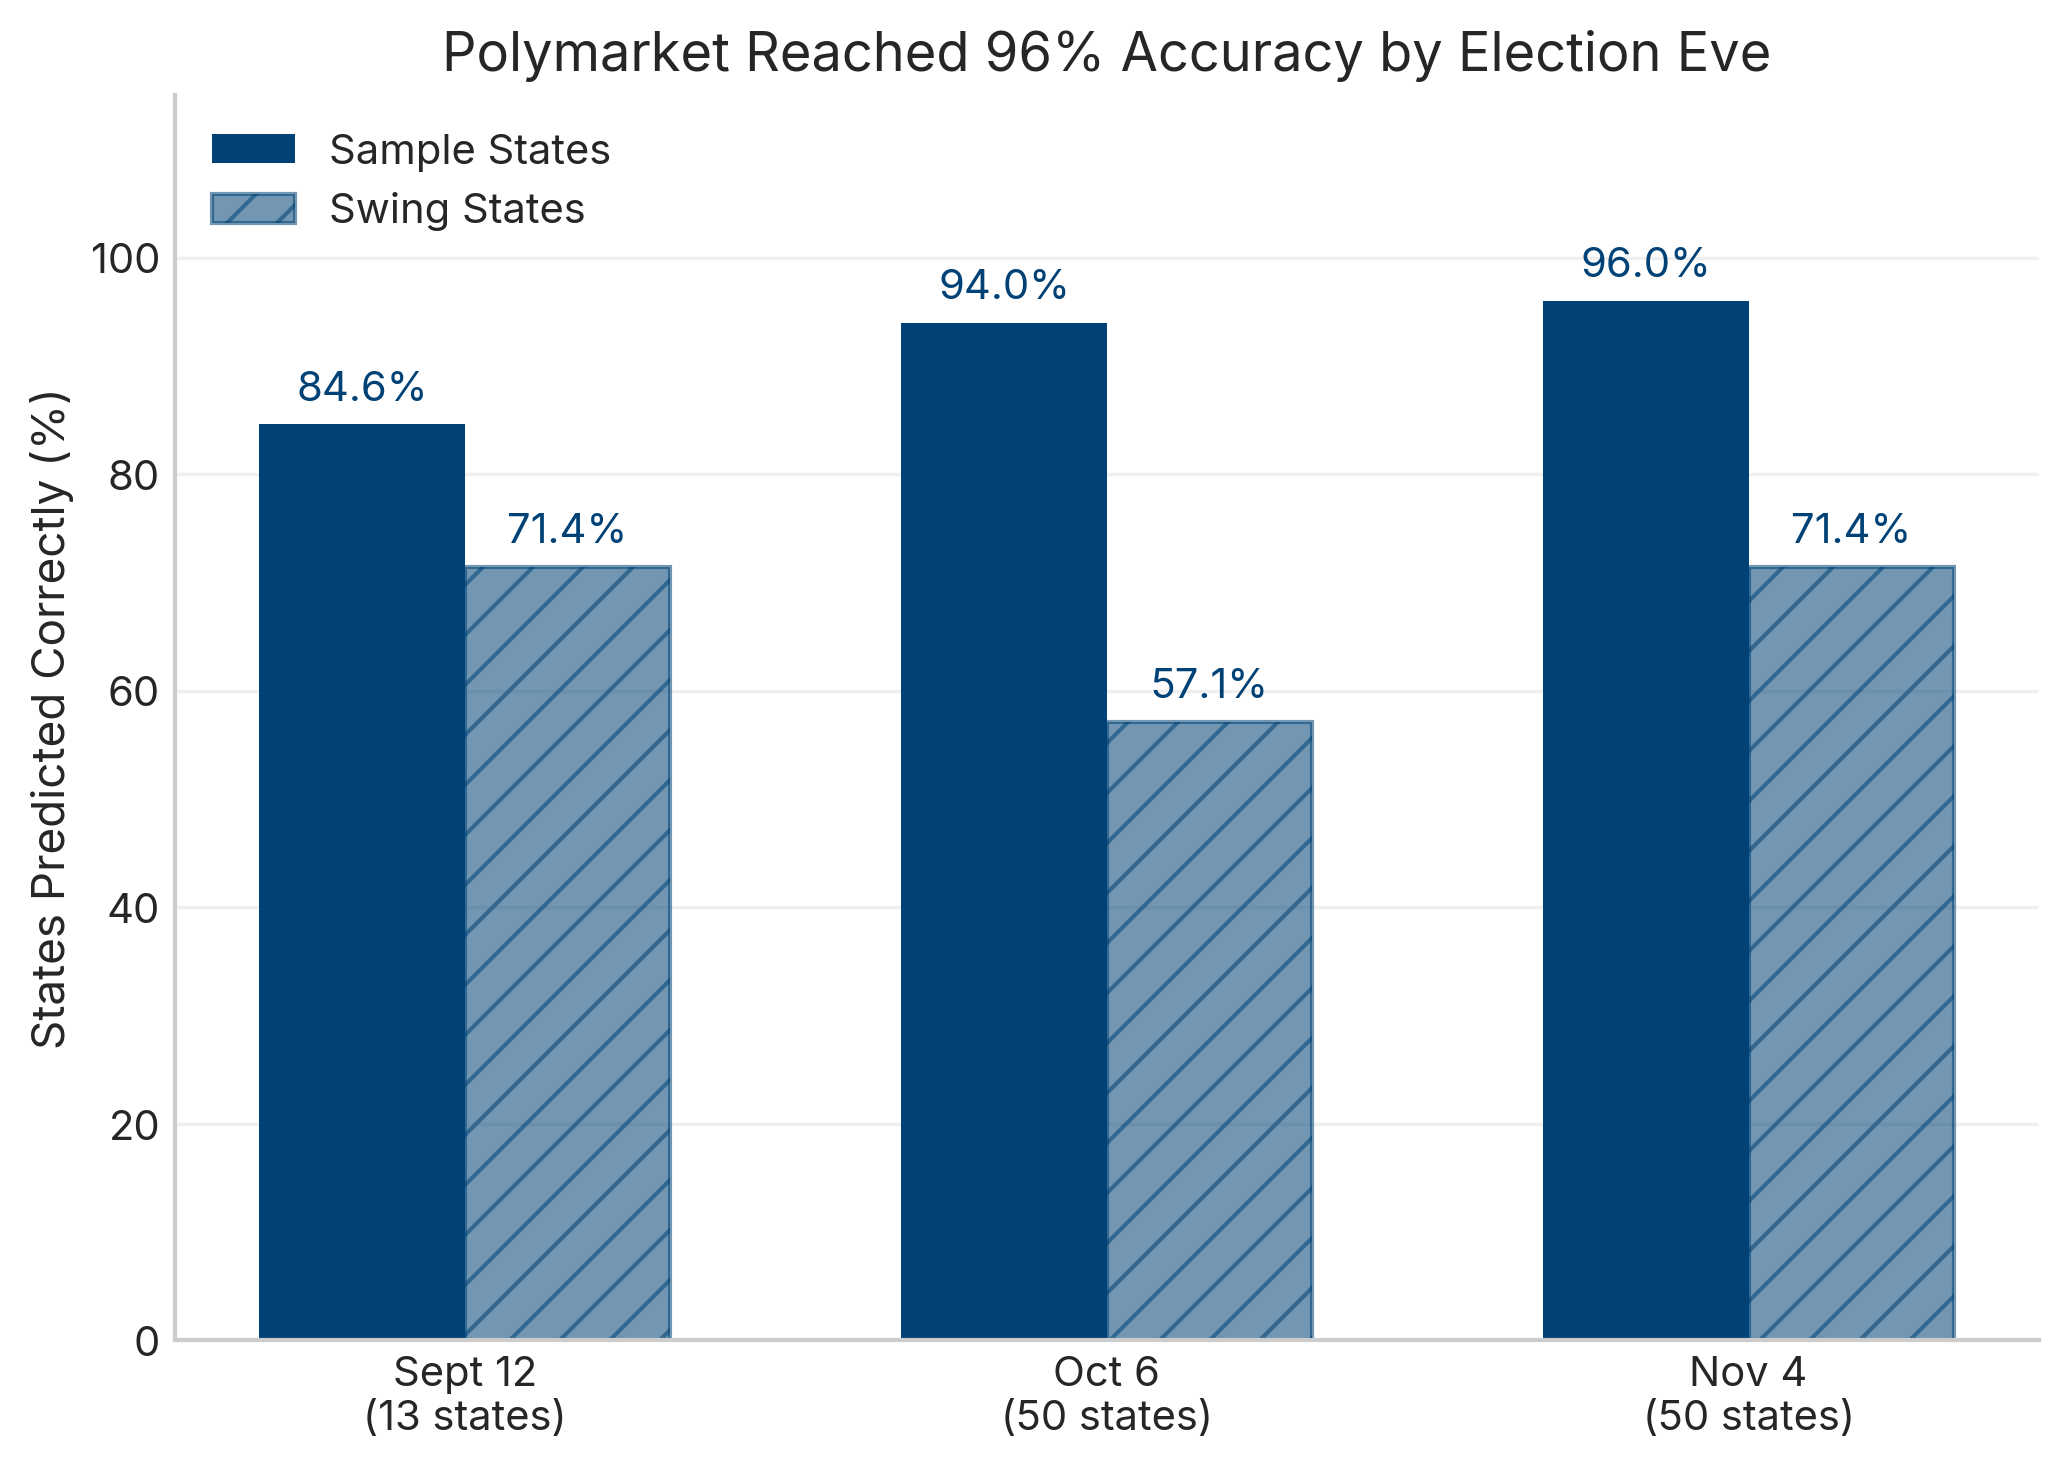
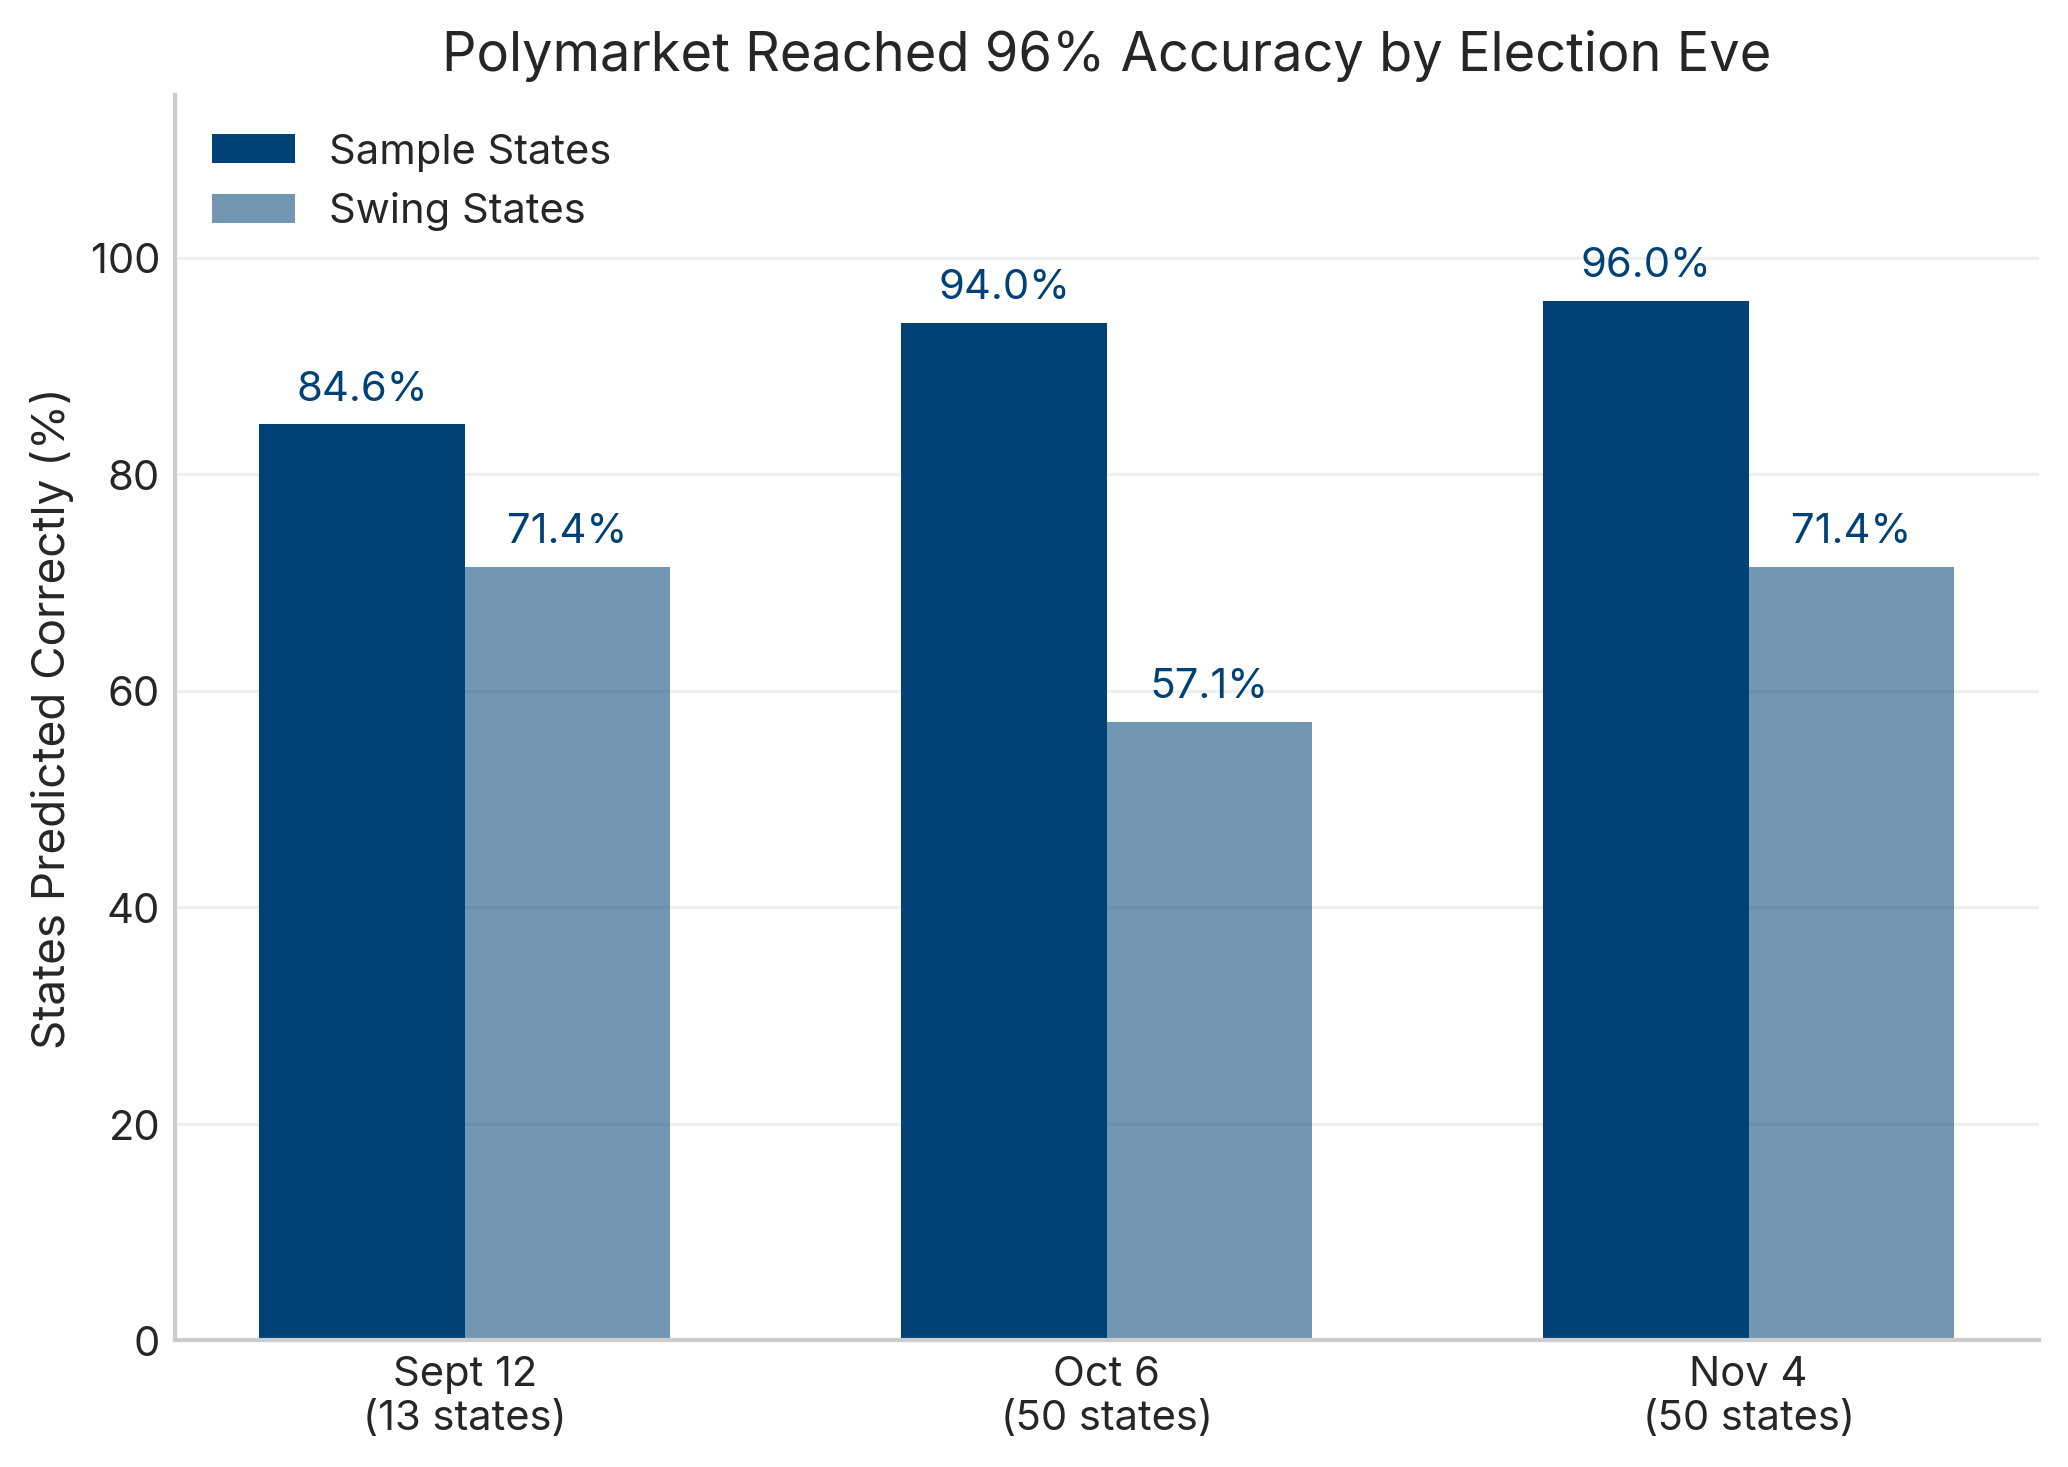
remove diagnonal lines on bars and chnage head to head figure title

diff --git a/src/visualize/accuracy_plots.py b/src/visualize/accuracy_plots.py
@@ -425,8 +425,6 @@ def plot_head_to_head(metrics):
         width,
         label="FiveThirtyEight",
         color=CLR_538,
-        hatch="//",
-        edgecolor="#B04E00",
     )
 
     _annotate_bars(ax, bars_pm, color=CLR_PM, bold=True)
@@ -436,7 +434,7 @@ def plot_head_to_head(metrics):
     ax.set_ylim(0, 105)
     ax.set_ylabel("States Predicted Correctly (%)")
     ax.set_title(
-        f"Polymarket Led FiveThirtyEight by {lead_pts:.0f} Points on Sept 12",
+        "State-by-State Prediction Accuracy",
         fontweight="bold",
     )
     ax.set_xticks(x)
@@ -473,8 +471,6 @@ def plot_polymarket_trajectory(metrics):
         label="Swing States",
         color=CLR_PM,
         alpha=0.55,
-        hatch="//",
-        edgecolor=CLR_PM,
     )
 
     _annotate_bars(ax, bars_all, color=CLR_PM, bold=True)
